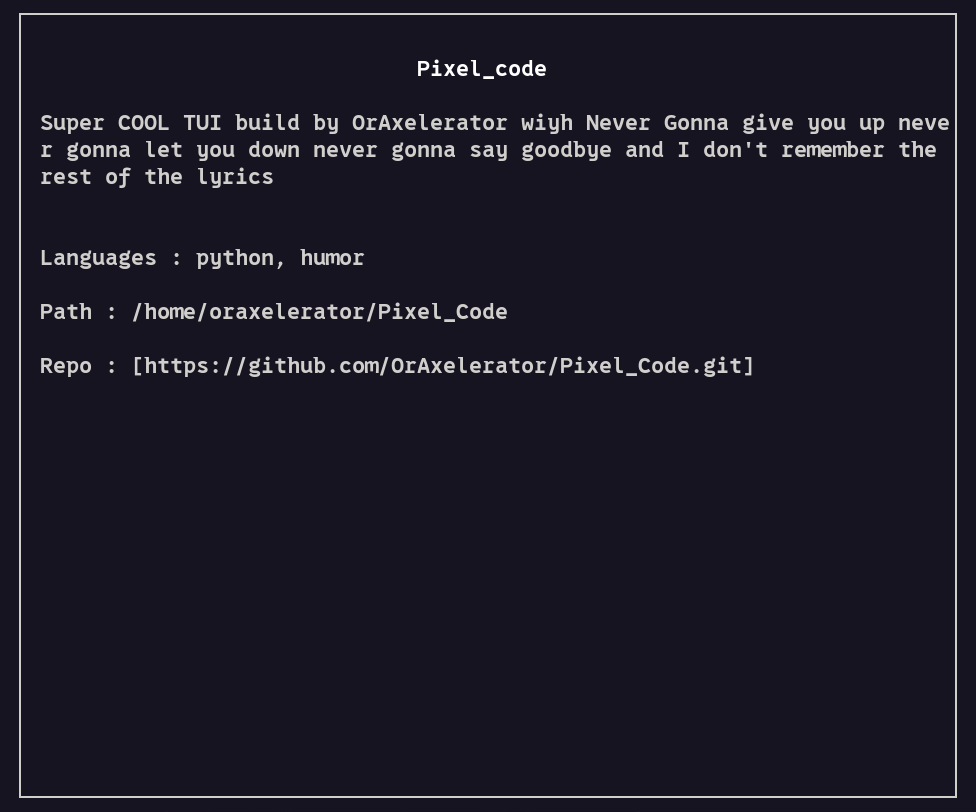
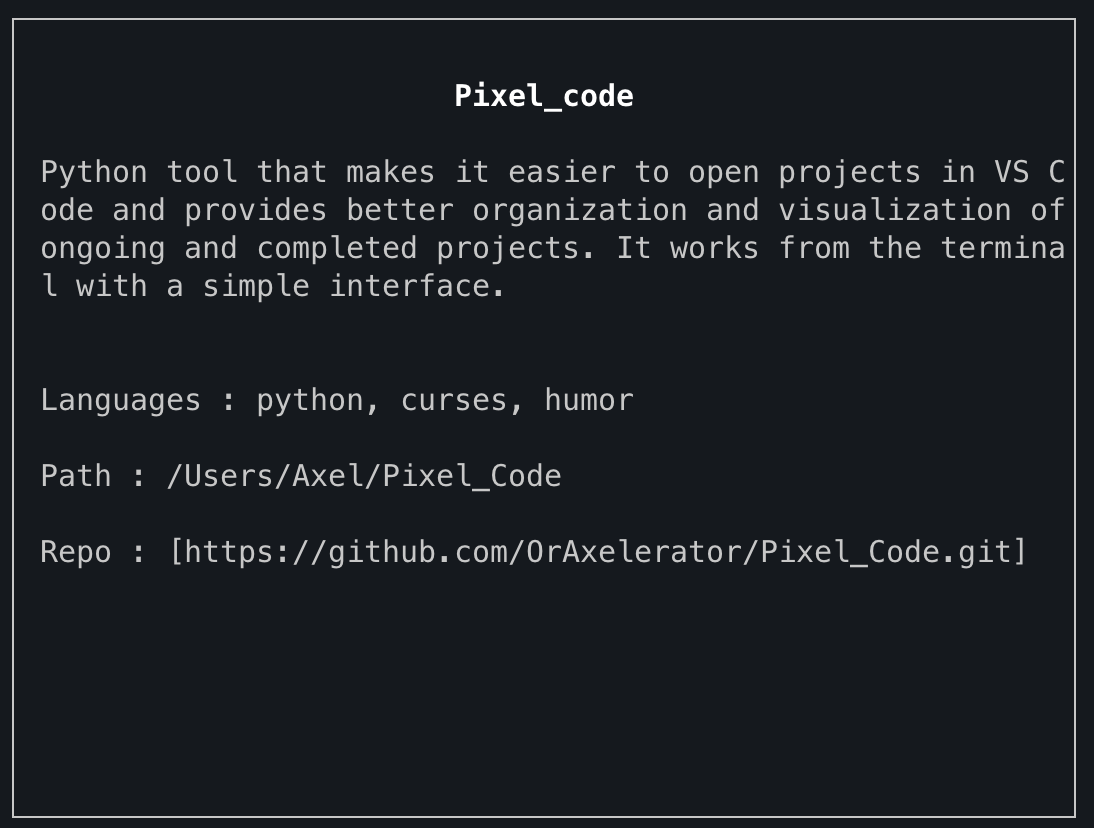
ortographe fr doc

Changed region(s): [[0.0, 0.0, 0.9836, 1.0], [0.1537, 0.5542, 0.5225, 0.6158]]

diff --git a/docs/fr/architecture.md b/docs/fr/architecture.md
@@ -30,7 +30,7 @@
 {
     "projects": [
         {
-            "id": "72b38123", #
+            "id": "72b38123", #uuid4
             "path": "/Users/Axel/Pixel_Code",
             "status": "todo" # ("todo", ...)
         }, ...
@@ -42,7 +42,7 @@
 
 ## Fonctionnement des écrans (`screens`)
 
-Les écrans dans Pixel Code sont des interfaces utilisateur construites avec la bibliothèque `curses`. Chaque écran est encapsulé dans une classe Python et est conçu pour gérer une partie spécifique de l'application. Deplus chaque écran est initialisé avec une référence à l'application principale (`main_app`) depuis ``app.py`` pour accéder aux ressources partagées comme `stdscr` (l'écran principal de `curses`) et les gestionnaires de données. Les écrans utilisent des fenêtres (`newwin`) pour afficher leurs contenus et interagir avec l'utilisateur. L'écran active (main/parametre) est enregistré dans la variable self.current dans la class App et peut prendre comme valeur: "main" et "parametre"
+Les écrans dans Pixel Code sont des interfaces utilisateur construites avec la bibliothèque `curses`. Chaque écran est encapsulé dans une classe Python et est conçu pour gérer une partie spécifique de l'application. De plus chaque écran est initialisé avec une référence à l'application principale (`main_app`) depuis ``app.py`` pour accéder aux ressources partagées comme `stdscr` (l'écran principal de `curses`) et le gestionnaires de donné ``paramManager``. Les écrans utilisent des fenêtres (`newwin`) pour afficher leurs contenus et interagir avec l'utilisateur. L'écran actif (main/parametre) est enregistré dans la variable self.current dans la class App et peut prendre comme valeur: "main" et "parametre".
 
 Voici une liste des écrans  de ``/screens``:
 
@@ -52,7 +52,7 @@ Voici une liste des écrans  de ``/screens``:
 - **Caractéristiques** :
   - Charge ``data/logo.txt`` contenant le logo.
   - Centre ou aligne le logo selon les paramètres utilisateur.
-  - Peut etre affiché soit a gauche ("left") ou milieu ("center") selon les réglage de l'utilisateur 
+  - Peut être affiché soit à gauche ("left") ou au milieu ("center") selon les réglage de l'utilisateur.
 
 ### 2. `MainScreen`
 - **Fichier** : `screens/main_screen.py`
@@ -62,7 +62,7 @@ Voici une liste des écrans  de ``/screens``:
 
 ### 3. `DetailPanel` 
 - **Fichier** : `screens/detail_panel_screen.py`
-- **Description** : Affiche un panneau avec les détails du projet selectionné dans une fenêtre dédiée sur le coté gauche de la fenetre main
+- **Description** : Affiche un panneau avec les détails du projet selectionné dans une fenêtre dédiée sur le coté gauche de la fenêtre main.
 - **Caractéristiques** :
   - Crée une fenêtre avec des bordures.
 
@@ -73,7 +73,7 @@ Voici une liste des écrans  de ``/screens``:
 - **Description** : Permet de configurer les paramètres de l'application.
 - **Caractéristiques** :
   - Affiche une liste de paramètres modifiables.
-  - S'affiche a la place de MainScreen
+  - S'affiche à la place de MainScreen.
   - Gère la navigation et la sélection des options.
   
 ### 5. `Input`

diff --git a/docs/fr/screens/detailPannel.md b/docs/fr/screens/detailPannel.md
@@ -1,38 +1,36 @@
 ### Detail pannel screens :
 
-En réalité il est utilisé que quand le paramètre ``"display_projects" = "side" ``  car quand ce parametre vaut ``"bottom"`` les donnés du project sont affiché en dessous de son nom sur la fenetre main.
+En réalité il n'est utilisé que lorsque le paramètre ``"display_projects" = "side" ``  car quand ce paramètre vaut ``"bottom"`` (supprimé depuis v0.4.0) les données du projet sont affichées en dessous de son nom sur la fenêtre main.
 
 
 Preview : 
 ![](/docs/assets/detailPannel.png)
 
-La fenetre est composé de 5 info :
+La fenêtre est composée de 5 infos :
 
 * Le nom du projet centré et en **gras**
 * La description du projet
-* Les langages utilisé
+* Les langages utilisés
 * Le chemin du projet sur la machine
-* Le lien du dépo github
+* Le lien du dépot github
 
-Le code permettant d'afficher cette fenetre est dans la fonction ``display_project_full`` de la classe Project et utilise self.detail_panel.win pour acceder a la fenetre
+Le code permettant d'afficher cette fenêtre se trouve dans la fonction ``display_project_full`` de la classe ``Project`` et utilise self.detail_panel.win pour accéder à la fenêtre
 
 
 ### L'affichage de la description :
-La description du projet peut etre plus longe que la largeur de la fenetre, malheuresement curses ne s'occupe pas de faire des retour a la ligne et renvoi l'erreur : ``addwstr()`` ou affichage incorectte.
+La description du projet peut être plus longue que la largeur de la fenêtre, malheureusement curses ne s'occupe pas de faire des retours à la ligne et renvoie l'erreur : ``addwstr()`` ou affichage incorrect.
 
-Le texte ``description_str`` est découpé en plusieur ligne dans ``description_cut``, on peut calculer le nombre de ligne nécéssaire avec : 
+Le texte ``description_str`` est découpé en plusieurs lignes dans ``description_cut``, on peut calculer le nombre de lignes nécéssaires avec : 
 ```python
 overflow:int =math.ceil(len(description_str) / w - 3)
 # -3 parceque 2ch pour la bordure et 1 pour la "margin-left"
 # math.ceil pour arrondir valeur supérieur 
 ```
-Puis ont fait : 
+Puis on fait : 
 ```python
-max_width = w - 3 #2 ch border + 1space left
+max_width = w - 3 #2 ch border + 1 space left
     for i in range(0, len(description_str), max_width):
     description_cut.append(description_str[i:i + max_width])
 ```
 
-> il faut rajouter + overflow en y au autre données après description pour toujours avoir un écart de 2ch entre description et le reste des donnés en dessous
-
-parler de sys ytaducton et param manager
+> il faut rajouter + overflow en ``y`` aux autres données après la description pour toujours avoir un écart de 2 caractères entre la description et le reste des donnés en dessous

diff --git a/README.md b/README.md
@@ -1,23 +1,12 @@
-```text
-$$$$$$$\  $$\                     $$\        $$$$$$\                  $$\           
-$$  __$$\ \__|                    $$ |      $$  __$$\                 $$ |          
-$$ |  $$ |$$\ $$\   $$\  $$$$$$\  $$ |      $$ /  \__| $$$$$$\   $$$$$$$ | $$$$$$\  
-$$$$$$$  |$$ |\$$\ $$  |$$  __$$\ $$ |      $$ |      $$  __$$\ $$  __$$ |$$  __$$\ 
-$$  ____/ $$ | \$$$$  / $$$$$$$$ |$$ |      $$ |      $$ /  $$ |$$ /  $$ |$$$$$$$$ |
-$$ |      $$ | $$  $$<  $$   ____|$$ |      $$ |  $$\ $$ |  $$ |$$ |  $$ |$$   ____|
-$$ |      $$ |$$  /\$$\ \$$$$$$$\ $$ |      \$$$$$$  |\$$$$$$  |\$$$$$$$ |\$$$$$$$\ 
-\__|      \__|\__/  \__| \_______|\__|$$$$$$\\______/  \______/  \_______| \_______|
-                                      \______|
-```
 # 🇬🇧/🇺🇸 - English Version
 
 [See the 🇫🇷 README](/docs/fr/README_FR.md)
 
+![](/docs/assets/preview.png)
 
-### What is Pixel_Code?
+## What is Pixel_Code?
 Pixel_Code is a Python tool that makes it easier to open projects in VS Code and provides better organization and visualization of ongoing and completed projects. It works from the terminal with a simple interface.
 
-![](/docs/assets/preview.png)
 
 > [!NOTE]
 >
@@ -87,7 +76,7 @@ see **documentation** : [here](/docs/eng/index.md)
 
 > [!IMPORTANT]
 >
-> For the icons to work, you need to set the **"0xProto Nerd Font"** in your terminal, and if you want to run the code in VS Code, you also need to set **Terminal › Integrated: Font Family** = `"0xProto Nerd Font"`
+> For the icons to work, you need to set the **"0xProto Nerd Font"** in your terminal, and if you want to run the code in VS Code, you also need to set **Terminal › Integrated: Font Family** = `"0xProto Nerd Font"`.
 >
 > Link to install the font: https://github.com/ryanoasis/nerd-fonts/releases/download/v3.4.0/0xProto.zip
 
@@ -95,15 +84,15 @@ see **documentation** : [here](/docs/eng/index.md)
 >
 > Keyboard shortcuts:
 > 
-> * **SPACE**: show/hide full view on a project
-> * **q**: stop the execution of the tui
-> * **↑/↓**: navigation
-> * **p**: open settings
-> * **r**: reload the display (only works in main branch)
-> * **e**: edit project data from Pixel_Code (not yet functional)
-> * **a**: add a project
-> * **d**: delete a project
-> * **g**: perform github action (not available)
+> * **SPACE**: show/hide full view on a project.
+> * **q**: stop the execution of the tui.
+> * **↑/↓**: navigation.
+> * **p**: open settings.
+> * **r**: reload the display (only works in main branch).
+> * **e**: edit project data from Pixel_Code (not yet functional).
+> * **a**: add a project.
+> * **d**: delete a project.
+> * **g**: perform github action (not available).
 
 ---
 

diff --git a/docs/fr/README_FR.md b/docs/fr/README_FR.md
@@ -1,19 +1,10 @@
-```text
-$$$$$$$\  $$\                     $$\        $$$$$$\                  $$\           
-$$  __$$\ \__|                    $$ |      $$  __$$\                 $$ |          
-$$ |  $$ |$$\ $$\   $$\  $$$$$$\  $$ |      $$ /  \__| $$$$$$\   $$$$$$$ | $$$$$$\  
-$$$$$$$  |$$ |\$$\ $$  |$$  __$$\ $$ |      $$ |      $$  __$$\ $$  __$$ |$$  __$$\ 
-$$  ____/ $$ | \$$$$  / $$$$$$$$ |$$ |      $$ |      $$ /  $$ |$$ /  $$ |$$$$$$$$ |
-$$ |      $$ | $$  $$<  $$   ____|$$ |      $$ |  $$\ $$ |  $$ |$$ |  $$ |$$   ____|
-$$ |      $$ |$$  /\$$\ \$$$$$$$\ $$ |      \$$$$$$  |\$$$$$$  |\$$$$$$$ |\$$$$$$$\ 
-\__|      \__|\__/  \__| \_______|\__|$$$$$$\\______/  \______/  \_______| \_______|
-                                      \______|
-```
 # 🇫🇷 - Versions :
-### Qu'est-ce que Pixel_Code ?
-Pixel_Code est un outil en Python permettant de facilement enregistrer vos projets en cours, et de les ouvrir facilement depuis le terminal avec une petite interface.
 
 ![](/docs/assets/preview.png)
+
+### Qu'est-ce que Pixel_Code ?
+Pixel_Code est un outil en Python permettant de facilement enregistrer vos projets en cours, et de les ouvrir facilement depuis le terminal avec une interface.
+
 
 > [!NOTE]
 >
@@ -73,7 +64,7 @@ Voir la **documentation** : [ici](/docs/fr/index.md)
     >[!WARNING]
     >
     > * Si vous recevez une erreur :
-    > **Allez voir instalation avancé windows [en cliquant ici](/docs/fr/install.md)**
+    > **Allez voir installation avancée windows [en cliquant ici](/docs/fr/install.md)**
         
     </details>
 
@@ -95,12 +86,12 @@ Voir la **documentation** : [ici](/docs/fr/index.md)
 > Raccourcis clavier :
 > 
 > * **ESPACE** : afficher / désactiver la vue complète sur un projet
-> * **q** : arrêter l’exécution du fichier
+> * **q** : arrêter l’exécution du programme
 > * **↑/↓** : navigation
 > * **p** : ouvrir les paramètres
 > * **r** : recharger l’affichage (marche seulement dans branch main)
 > * **e** : éditer les données d’un projet depuis Pixel_Code (pas encore fonctionnel)
-> * **a** : ajoutez un projet
+> * **a** : ajouter un projet
 > * **d** : suprimer un projet
 > * **g** : faire action github (pas dispo)
 
@@ -111,7 +102,7 @@ Voir la **documentation** : [ici](/docs/fr/index.md)
 * librairie python : curses pour l'affichage
 * librairie python : request pour le systeme de mise a jour
 * pyproject.tmol
-* .json pour les données enregistré
+* .json pour les données enregistrées
 
 ### License : 
 Le projet est sous license GNU - voir le fichier [LICENSE](/LICENSE.md) pour plus d'informations.

diff --git a/docs/fr/config.md b/docs/fr/config.md
@@ -2,18 +2,18 @@
 
 * Activer réellement les icones :
 
-    Pour Activer les icones il suffit de changer la font de votre terminal par **"0xProto Nerd Font"**, et si vous souhaitez exécuter le code aussi dans VS Code, il faut appliquer la font dans le terminal vscode **Terminal › Integrated: Font Family** = `"0xProto Nerd Font"`
+    Pour Activer les icones il suffit de changer la font de votre terminal par **"0xProto Nerd Font"**, et si vous souhaitez exécuter le code aussi dans VS Code, il faut appliquer la font dans le terminal vscode **Terminal › Integrated: Font Family** = `"0xProto Nerd Font"`.
 
     > Lien pour installer la police : https://github.com/ryanoasis/nerd-fonts/releases/download/v3.4.0/0xProto.zip
 
 <br>
 
->  Changer les parametres :
->  Pour changer les parametres une windows et accessible via la touche ``p``mais peut etre certain parametre **ne sont pas encore modifiable** depuis cette interface, pour acceder totalement au parametre allez à : ``/pixel_code/data/parametres.json``
+>  Changer les paramètres :
+>  Pour changer les paramètres une fenêtre est accessible via la touche ``p`` mais peut-être que certains paramètres **ne sont pas encore modifiables** depuis cette interface, pour accéder totalement aux paramètres allez à : ``/pixel_code/data/parametres.json``.
 
 >[!NOTE]
 >
 > Lancer en **mode debug** :
->   Depuis racine du projet vous pouvez taper la commande : ``python3 pixel_code/__main__.py --debug`` (ou py/python selon votre machine) tout les logs seront envoyé dans le fichier ``debug.log``. A noter que pour le moment debug ne sont quasiment pas utilisé
+>   Depuis la racine du projet vous pouvez taper la commande : ``python3 pixel_code/__main__.py --debug`` (ou py/python selon votre machine) tout les logs seront envoyés dans le fichier ``debug.log``. A noter que pour le moment les log ne sont quasiment pas utilisés.
 
 

diff --git a/docs/fr/param_manager.md b/docs/fr/param_manager.md
@@ -1,9 +1,9 @@
 # ParamManager
 
 
-ParamManger est une classe (``/pixel_code/script/data/param_manager.py``) créer dans  app.py dans la variable ``self.param_manager``. Cette classe charge les parametres utilisateur (/data/parametre.json) avec self.load_param() et enregistre les données avec self.save_param(). Pour obtenir une donnés il suffit d'accceder a la classe et utilisier get_data(key_section, key)
+ParamManger est une classe (``/pixel_code/script/data/param_manager.py``) créée dans app.py dans la variable ``self.param_manager``. Cette classe charge les paramètres utilisateur (/data/parametre.json) avec self.load_param() et enregistre les données avec self.save_param(). Pour obtenir une donnée il suffit d'accéder à la classe et utiliser get_data(key_section, key).
 
-ex : 
+exemple : 
 ```json
 {
     "app": {
@@ -15,7 +15,7 @@ ex :
 
 > self.get_data("app", "language") = "en"
 
-L'idée de cette classe et que depuis n'importe ou, tant qu'il y a un accès a la classe main on puisse acceder au donnés du json sans devoir relire le json
+L'idée de cette classe est que depuis n'importe où, tant qu'il y a un accès à la classe main on puisse acceder aux données du json sans devoir relire le json.
 
-Cepadant dans la classe projet par ex l'accès au donnés ressemble a ça : ``self.main_app.main_app.param_manager.get_data("projects", "editor")``
-Ce qui peut surement etre réduis 
+Cepandant dans la classe project par ex l'accès aux données ressemble à ça : ``self.main_app.main_app.param_manager.get_data("projects", "editor")``
+Ce qui peut surement être réduit. 

diff --git a/docs/fr/App.md b/docs/fr/App.md
@@ -18,13 +18,13 @@ Puis, la fenêtre affichée (seulement les fenêtres qui prennent 100 % de l'esp
 ## self.run()
 
 S'occupe :
-- d'afficher le logo
-- d'afficher la fenêtre `main` à l'init
-- puis de lancer une boucle `while True`
+- d'afficher le logo.
+- d'afficher la fenêtre `main` à l'init.
+- puis de lancer une boucle `while True`.
 
 Cette boucle détecte :
-- quelle touche est pressée
-- quoi faire en fonction de l'écran
+- quelle touche est pressée.
+- quoi faire en fonction de l'écran.
 
 ---
 
@@ -33,4 +33,4 @@ Cette boucle détecte :
 À noter que la fonction `get_key()` ne renvoie pas toutes les touches du clavier.
 
 Pour rajouter une fonction à l'appui d'une touche, il faut rajouter cette touche dans :
-`pixel_code/script/keybord.py`
+`pixel_code/script/keybord.py` dans la condition os == "nt" (windows), os == "Darwin" ("macos") et Linux. 

diff --git a/docs/fr/install.md b/docs/fr/install.md
@@ -82,7 +82,7 @@ Puis Tapez : ```py -m pip install -e .``` :
 
 --- 
 
-### Une fois l'intstalation fini :
+### Une fois l'Installation terminée :
 
 > [!NOTE]
 >
@@ -90,4 +90,4 @@ Puis Tapez : ```py -m pip install -e .``` :
 
 ---
 
-Si le code se lance **sans crash** mais a des bugs a affiché certain caractère icone : allez voir [CONFIG](/docs/fr/config.md)
+Si le code se lance **sans crash** mais que certains caractères sont mal affichés : allez voir [CONFIG](/docs/fr/config.md)

diff --git a/docs/fr/raccourci_clavier.md b/docs/fr/raccourci_clavier.md
@@ -10,6 +10,6 @@
 > * **p** : ouvrir les paramètres
 > * **r** : recharger l’affichage (marche seulement dans main)
 > * **e** : éditer les données d’un projet depuis Pixel_Code (pas encore fonctionnel)
-> * **a** : ajoutez un projet
-> * **d** : suprimer un projet
+> * **a** : ajouter un projet
+> * **d** : supprimer un projet
 > * **g** : faire action github (indisponible pour le moment)

diff --git a/docs/fr/index.md b/docs/fr/index.md
@@ -1,7 +1,7 @@
 # Liste de la doc
 
 * [Readme](/docs/fr/README_FR.md)
-* [Instalation](/docs/fr/install.md)
+* [Installation](/docs/fr/install.md)
 * [Raccourci_clavier](/docs/fr/raccourci_clavier.md)
 * [Configuration](/docs/fr/config.md)
 * [Architecture](/docs/fr/architecture.md)

diff --git a/CONTRIBUTING.md b/CONTRIBUTING.md
@@ -17,5 +17,6 @@
 * Faire du code facile a lire/comprendre.
 * écrire les commentaires **en anglais**, pas français.
 * Le faire marcher en anglais et francais.
+* Faire marcher le code sur Linux/MacOs et Windows. 
 * Garder la logique du dépot.
 * Pas de print()/input().
